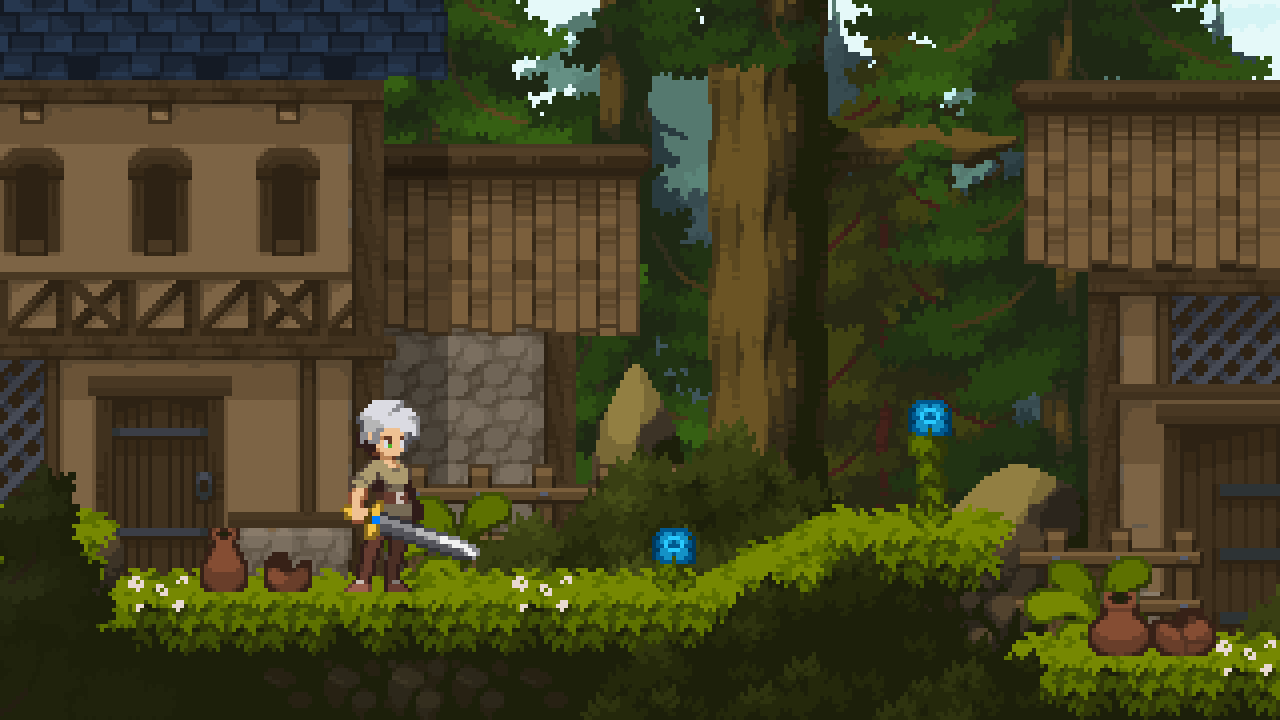
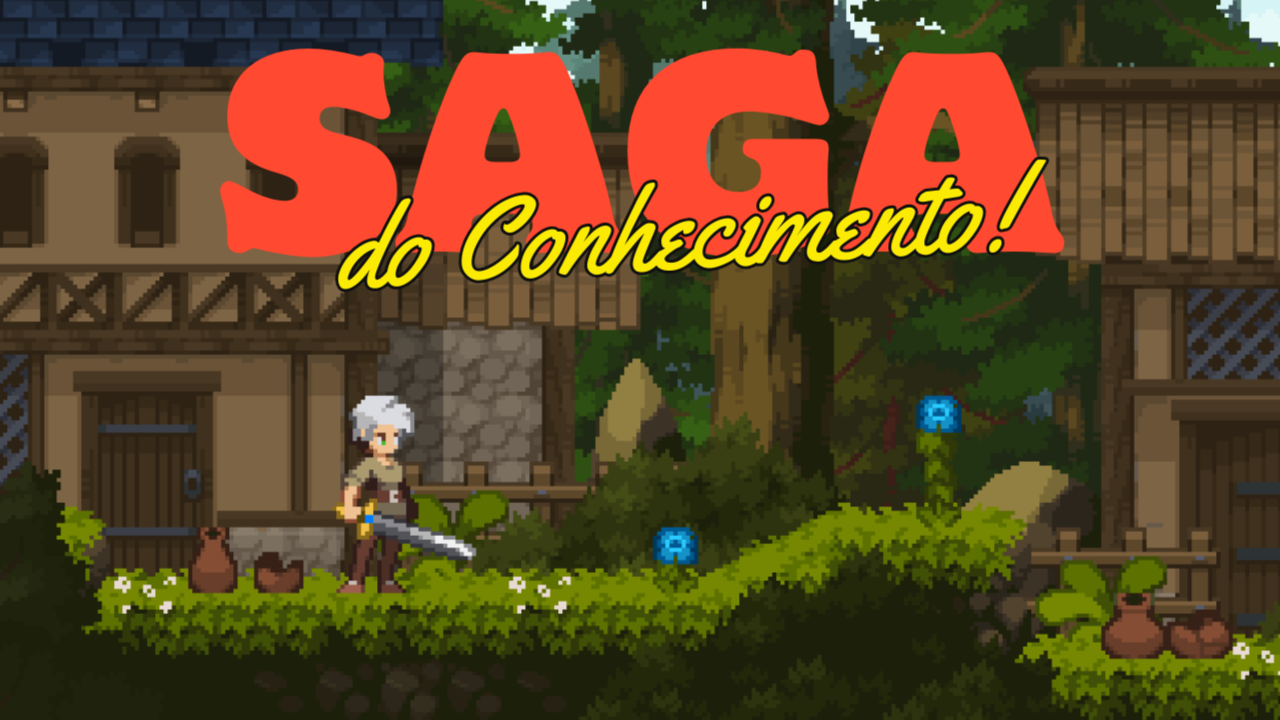
corrigido modo história, alterado background do menu e atualizado readme

diff --git a/main.py b/main.py
@@ -32,12 +32,6 @@ background_historia_img = carregar_imagem("background_historia.png", WIDTH, HEIG
 jogador = Jogador()
 inimigo = Inimigo()
 
-# Definir objetos interativos
-objetos_interativos = [
-    pygame.Rect(500, HEIGHT - 200, 50, 50),  # Exemplo de objeto interativo
-    pygame.Rect(800, HEIGHT - 300, 50, 50)   # Outro exemplo de objeto interativo
-]
-
 # Função principal da batalha
 def batalha():
     # Configurações iniciais
@@ -54,7 +48,7 @@ def batalha():
     # Loop principal da batalha
     while jogador.estado["batalha_ativa"]:
         # Selecionar ação do jogador
-        acao = jogador.selecionar_acao(screen, background_batalha_img)
+        acao = jogador.selecionar_acao(screen, background_batalha_img, inimigo)
 
         if acao == "Fugir":
             resultado = jogador.executar_acao(acao, False, 0, inimigo, screen, background_batalha_img)
@@ -120,12 +114,23 @@ def fase_zero():
         "jogador_frame_tempo": 0
     })
 
+    # Desenhar opção de sair antes do loop principal
+    ret_sair = desenhar_texto("Sair", None, COLORS["BRANCO"], screen, WIDTH - 100, HEIGHT - 50)
+
     # Loop principal da fase zero
     while running:
         for evento in pygame.event.get():
             if evento.type == pygame.QUIT:
                 pygame.quit()
                 exit()
+            if evento.type == pygame.KEYDOWN:
+                if evento.key == pygame.K_ESCAPE:
+                    running = False
+                    tela_inicial()
+            if evento.type == pygame.MOUSEBUTTONDOWN:
+                if ret_sair.collidepoint(pygame.mouse.get_pos()):
+                    running = False
+                    tela_inicial()
 
         # Controle de movimento do jogador
         keys = pygame.key.get_pressed()
@@ -150,21 +155,17 @@ def fase_zero():
             jogador_vel_y = 0
             jogador_no_chao = True
 
-        # Detecção de colisão com objetos interativos
-        jogador_rect = pygame.Rect(jogador_pos[0], jogador_pos[1], 50, 100)  # Ajuste o tamanho do rect conforme necessário
-        for obj in objetos_interativos:
-            if jogador_rect.colliderect(obj):
-                # Apresentar uma pergunta quando colidir com um objeto interativo
-                perguntas = perguntas_por_nivel_e_disciplina[jogador.estado["nivel_selecionado"]]["Matemática"]
-                pergunta, opcoes_rects = jogador.apresentar_pergunta(perguntas, screen, background_historia_img)
-                resposta_correta, tempo_resposta = jogador.avaliar_resposta(pergunta, opcoes_rects, screen, background_historia_img)
-                # Executar uma ação com base na resposta (aqui pode ser expandido conforme necessário)
-
         # Desenhar a fase
         screen.blit(background_historia_img, (0, 0))
-        for obj in objetos_interativos:
-            pygame.draw.rect(screen, COLORS["AMARELO"], obj)  # Desenhar objetos interativos
         screen.blit(jogador.jogador_animacoes[jogador.estado["jogador_acao"]][jogador.estado["jogador_frame_atual"]], jogador_pos)
+
+        # Desenhar opção de sair
+        mouse_pos = pygame.mouse.get_pos()
+        cor = COLORS["PRETO"] if ret_sair.collidepoint(mouse_pos) else COLORS["BRANCO"]
+        if ret_sair.collidepoint(mouse_pos):
+            pygame.draw.rect(screen, COLORS["AMARELO"], ret_sair)
+        ret_sair = desenhar_texto("Sair", None, cor, screen, WIDTH - 100, HEIGHT - 50)
+
         pygame.display.flip()
         clock.tick(60)  # Limitar a 60 quadros por segundo
 
@@ -177,7 +178,6 @@ def modo_historia():
 def tela_inicial():
     tocar_musica(MUSICAS["menu"])
     screen.blit(background_menu_img, (0, 0))
-    desenhar_texto("A Saga do Conhecimento", None, COLORS["BRANCO"], screen, WIDTH // 2 - 150, HEIGHT // 2 - 100)
     opcoes_menu = ["Batalhar", "Modo História", "Tela Cheia", "Opções", "Sair"]
     retangulos_menu = [desenhar_texto(opcao, None, COLORS["BRANCO"], screen, WIDTH // 2 - 50, HEIGHT // 2 + i * 50) for i, opcao in enumerate(opcoes_menu)]
     pygame.display.flip()
@@ -228,16 +228,16 @@ def tela_inicial():
                         elif i == 4:
                             pygame.quit()
                             exit()
-            # Atualizar a opção selecionada com base na posição do mouse
-            for i, ret in enumerate(retangulos_menu):
-                if ret.collidepoint(mouse_pos):
-                    opcao_selecionada = i
+
+        for i, ret in enumerate(retangulos_menu):
+            if ret.collidepoint(mouse_pos):
+                opcao_selecionada = i
+
         screen.blit(background_menu_img, (0, 0))
-        desenhar_texto("A Saga do Conhecimento", None, COLORS["BRANCO"], screen, WIDTH // 2 - 150, HEIGHT // 2 - 100)
         for i, opcao in enumerate(opcoes_menu):
             cor = COLORS["PRETO"] if i == opcao_selecionada else COLORS["BRANCO"]
             if i == opcao_selecionada:
-                pygame.draw.rect(screen, COLORS["AMARELO"], ret)
+                pygame.draw.rect(screen, COLORS["AMARELO"], retangulos_menu[i])
             desenhar_texto(opcao, None, cor, screen, WIDTH // 2 - 50, HEIGHT // 2 + i * 50)
         pygame.display.flip()
 

diff --git a/entities.py b/entities.py
@@ -1,6 +1,6 @@
 import pygame
 from config import COLORS, WIDTH, HEIGHT
-from utils import carregar_animacao, desenhar_texto, desenhar_personagens, tocar_som, parar_musica
+from utils import carregar_animacao, desenhar_texto, desenhar_hud, desenhar_personagens, desenhar_barra_tempo, tocar_som, parar_musica
 
 class Jogador:
     def __init__(self):
@@ -45,9 +45,10 @@ class Jogador:
             "inimigo_frame_tempo": 0
         })
 
-    def selecionar_acao(self, screen, background_batalha_img):
+    def selecionar_acao(self, screen, background_batalha_img, inimigo):
         acoes = ["Ataque", "Magia", "Defesa", "Curar", "Fugir"]
         opcao_selecionada = 0
+        opcoes_rects = []
 
         while True:
             mouse_pos = pygame.mouse.get_pos()
@@ -63,22 +64,28 @@ class Jogador:
                     elif evento.key == pygame.K_RETURN:
                         return acoes[opcao_selecionada]
                 if evento.type == pygame.MOUSEBUTTONDOWN:
-                    for i, ret in enumerate(opcoes_rects):
-                        if ret.collidepoint(evento.pos):
+                    for i, rect in enumerate(opcoes_rects):
+                        if rect.collidepoint(evento.pos):
                             return acoes[i]
 
             screen.blit(background_batalha_img, (0, 0))
             desenhar_hud(screen, self.estado)
-            desenhar_personagens(screen, self.jogador_animacoes, {}, self.estado)
+            desenhar_personagens(screen, self.jogador_animacoes, inimigo.inimigo_animacoes, self.estado)
             desenhar_texto("Escolha sua ação:", None, COLORS["BRANCO"], screen, 20, 20)
+
             opcoes_rects = []
             for i, acao in enumerate(acoes):
                 cor = COLORS["PRETO"] if i == opcao_selecionada else COLORS["BRANCO"]
-                if i == opcao_selecionada:
-                    ret = desenhar_texto(f"> {acao}", None, cor, screen, 20, 60 + i * 40)
-                else:
-                    ret = desenhar_texto(acao, None, cor, screen, 20, 60 + i * 40)
+                ret = desenhar_texto(acao, None, cor, screen, 20, 60 + i * 40)
                 opcoes_rects.append(ret)
+                if ret.collidepoint(mouse_pos):
+                    opcao_selecionada = i
+
+            for i, rect in enumerate(opcoes_rects):
+                if rect.collidepoint(mouse_pos):
+                    pygame.draw.rect(screen, COLORS["AMARELO"], rect)
+                    desenhar_texto(acoes[i], None, COLORS["PRETO"], screen, rect.x, rect.y)
+
             pygame.display.flip()
 
     def apresentar_pergunta(self, perguntas, screen, background_img):
@@ -183,7 +190,7 @@ class Jogador:
                 for frame in self.jogador_animacoes["attack"]:
                     screen.blit(background_img, (0, 0))
                     desenhar_hud(screen, self.estado)
-                    screen.blit(frame, (100, HEIGHT - 320))
+                    screen.blit(frame, (100, HEIGHT - 400))
                     pygame.display.flip()
                     pygame.time.delay(150)
 
@@ -260,7 +267,7 @@ class Inimigo:
         for frame in self.inimigo_animacoes["attack"]:
             screen.blit(background_img, (0, 0))
             desenhar_hud(screen, jogador.estado)
-            screen.blit(frame, (980, HEIGHT - 320))
+            screen.blit(frame, (980, HEIGHT - 400))
             pygame.display.flip()
             pygame.time.delay(150)
 

diff --git a/utils.py b/utils.py
@@ -1,6 +1,6 @@
 import pygame
 import os
-from config import COLORS, WIDTH
+from config import COLORS, WIDTH, HEIGHT
 
 def carregar_imagem(nome, width, height):
     """Carrega e redimensiona uma imagem."""
@@ -64,8 +64,8 @@ def desenhar_hud(screen, estado_jogo):
     desenhar_texto(f"Pontos de Sabedoria: {estado_jogo['pontos_sabedoria']}", None, COLORS["BRANCO"], screen, WIDTH - 320, 20)
 
 def desenhar_personagens(screen, jogador_animacoes, inimigo_animacoes, estado_jogo, dano_jogador=False, dano_inimigo=False, derrota_jogador=False, derrota_inimigo=False):
-    jogador_pos = (100, HEIGHT - 320)
-    inimigo_pos = (980, HEIGHT - 320)
+    jogador_pos = (100, HEIGHT - 400)
+    inimigo_pos = (980, HEIGHT - 400)
 
     # Animação do jogador
     if derrota_jogador:

diff --git a/config.py b/config.py
@@ -21,3 +21,5 @@ MUSICAS = {
     "vitoria": "som_vitoria.mp3",
     "derrota": "som_derrota.mp3"
 }
+
+# altura_chao = HEIGHT - 400  # Ajuste esta variável para regular a altura do chão

diff --git a/README.md b/README.md
@@ -12,3 +12,32 @@ O objetivo principal do projeto é criar uma experiência de jogo que não só e
 - **Biblioteca:** Pygame
 - **Ferramentas de Design:** Figma para prototipação e design de UI/UX
 - **Gestão do Projeto:** Metodologias ágeis (Scrum) com quadros Kanban para organização de tarefas
+
+## Requisitos do Sistema
+
+Para rodar o jogo, você precisará ter instalado:
+- Python 3.12 ou superior
+- pygame-ce 2.5.0 ou superior
+
+
+Como Jogar
+Modo História
+No menu principal, selecione "Modo História".
+Use as teclas de seta para mover o personagem:
+Esquerda/Direita: Mover para a esquerda/direita
+Barra de Espaço: Pular
+Clique em "Sair" no canto inferior direito ou pressione Esc para voltar ao menu principal.
+Modo Batalha
+No menu principal, selecione "Batalhar".
+Durante a batalha, selecione sua ação usando as teclas de seta ou o mouse:
+Enter: Confirmar ação
+Responda às perguntas apresentadas para realizar ações e vencer a batalha.
+Estrutura do Projeto
+Arquivos e Diretórios
+main.py: Ponto de entrada do jogo. Contém a lógica principal para iniciar o jogo e gerenciar os modos de jogo.
+config.py: Contém as configurações gerais do jogo, como cores, dimensões da tela e músicas.
+entities.py: Define as classes Jogador e Inimigo, e contém a lógica para suas ações e animações.
+questions.py: Contém as perguntas utilizadas no jogo, organizadas por nível e disciplina.
+utils.py: Funções utilitárias para carregar imagens, tocar música, desenhar na tela, etc.
+README.md: Este arquivo, contendo a documentação do projeto.
+
